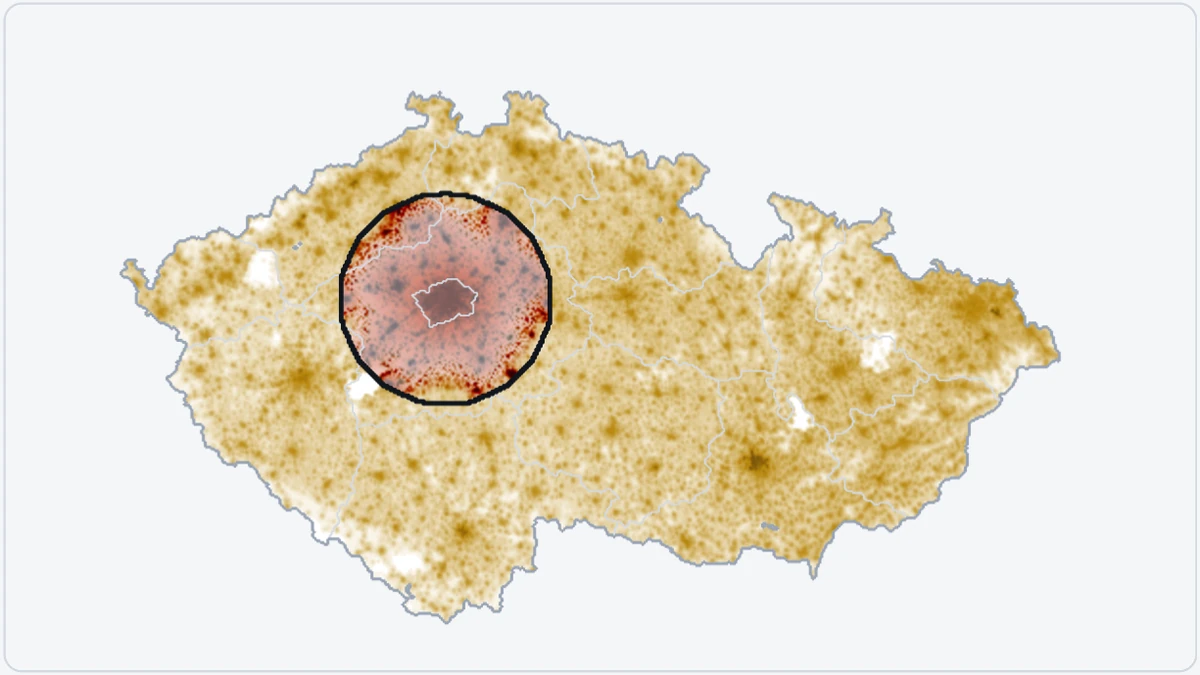
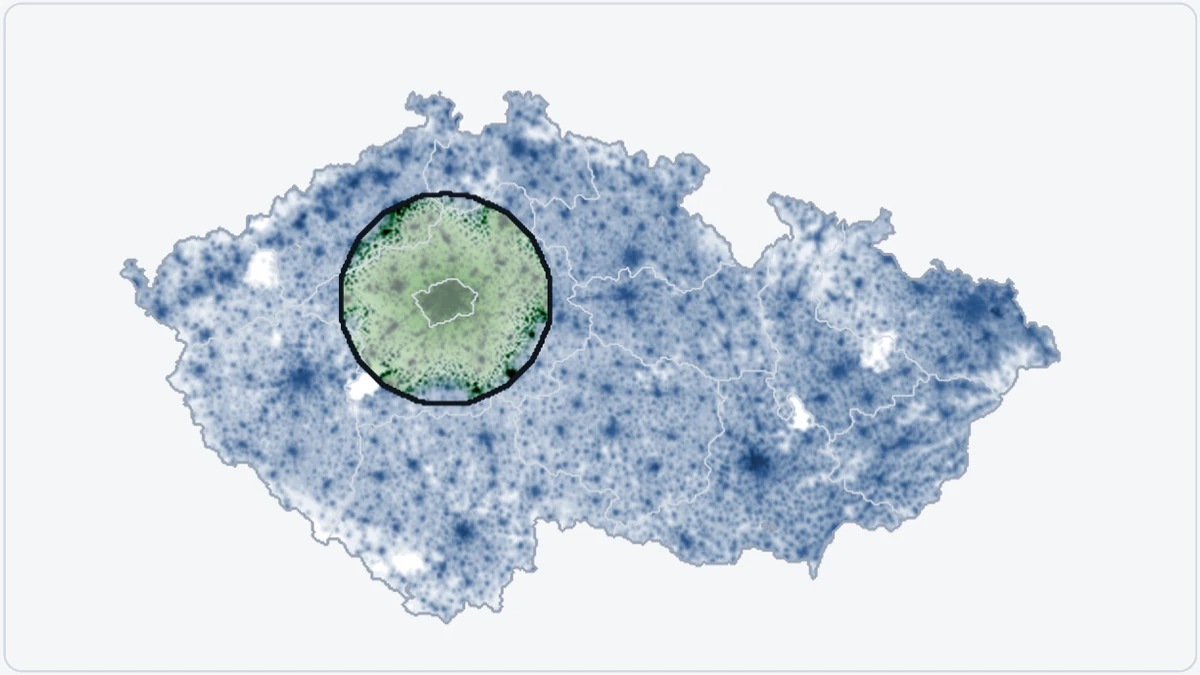
People take the main highlight and zombies the contrasting one
Move to demo-kit 0.4.0's colour roles: people use --color-accent and
zombies --color-accent-2, in the map and the chart, in place of
--color-sodium, --color-halpha and the light theme's ochre. On light, the
densest people deepen to navy and the front to deep green; the dead stay
charcoal. "What you're seeing" no longer names colours, as a stand-in
until Mark rewrites it. Stills re-rendered. Version 1.5.0.

diff --git a/demo/src/demo.css b/demo/src/demo.css
@@ -1,22 +1,20 @@
 /*
- * The map colours the kit has no tokens for (see readColours in src/render/map.js):
- * - people: city lights in sodium amber on dark, rising to white in the densest cores; ochre ink on
- *   light, rising to dark brown, so that nothing alive looks like the dead
- * - the front, where bites are happening now: H-alpha red rising to white on dark, to dark red on light
+ * People take the kit's main highlight (--color-accent) and zombies its contrasting one
+ * (--color-accent-2); see readColours in src/render/map.js. The map colours the kit has no tokens for:
+ * - the densest cores of people, and the front at its strongest, where bites are happening now:
+ *   white on dark; on light, a deeper shade of the same hue
  * - the dead: ash grey on dark, charcoal ink on light.
  * Dark is the default, as in the kit: light applies only under <html data-theme="light">.
  */
 [data-demo] {
-  --zo-people: var(--color-sodium);
   --zo-people-peak: var(--color-text);
   --zo-front-peak: var(--color-text);
   --zo-dead: #9aa6b8;
 }
 
 :root[data-theme="light"] [data-demo] {
-  --zo-people: #b8860b;
-  --zo-people-peak: #5c3d0a;
-  --zo-front-peak: #6e1606;
+  --zo-people-peak: #0f253f;
+  --zo-front-peak: #2d5923;
   --zo-dead: #2f3642;
 }
 
@@ -84,7 +82,7 @@
   font-weight: var(--weight-strong);
   text-align: center;
   background: var(--color-surface);
-  border: 1px solid var(--color-halpha);
+  border: 1px solid var(--color-accent-2);
   border-radius: var(--radius-pill);
   transform: translateX(-50%);
   cursor: default;

diff --git a/demo/src/render/paint.js b/demo/src/render/paint.js
@@ -2,12 +2,13 @@
 // only the finished image crosses to the main thread. No DOM access.
 //
 // "The lights go out": each Czech cell starts from the land colour, adds light for its humans (log
-// scale, sodium amber rising to white in the densest cores), and adds the stronger of two layers:
+// scale, the people's colour rising to white in the densest cores), and adds the stronger of two
+// layers:
 // - the fallen: zombies and the dead together, log-scaled like the people, in a colour mixed from
-//   red (zombies) and ash (the dead) by their shares, so a cell with more dead than zombies looks
-//   more ash than red
-// - the front: a bright red, rising to white, for where bites are happening now (β S Z).
-// In the light theme the same arithmetic darkens pale paper with ochre ink, red and charcoal instead.
+//   the zombies' colour and the dead's by their shares, so a cell with more dead than zombies looks
+//   more like the dead
+// - the front: the zombies' colour, rising to white, for where bites are happening now (β S Z).
+// In the light theme the same arithmetic darkens pale paper instead, rising to deeper shades.
 
 import { NEIGHBOUR_BASE } from '../grid.js';
 import { pack, parseHex, ramp, rampIndex } from './colour.js';

diff --git a/demo/test/engine.test.js b/demo/test/engine.test.js
@@ -6,8 +6,8 @@ import { parseHex } from '../src/render/colour.js';
 import { createPainter } from '../src/render/paint.js';
 import { createEngine } from '../src/sim/engine.js';
 
-const DARK = { night: '#0a0e14', land: '#111722', people: '#f6be55', peoplePeak: '#e8ecf2', zombie: '#c2391b', frontPeak: '#e8ecf2', dead: '#9aa6b8' };
-const LIGHT = { night: '#f5f6f8', land: '#ffffff', people: '#b8860b', peoplePeak: '#5c3d0a', zombie: '#c2391b', frontPeak: '#6e1606', dead: '#2f3642' };
+const DARK = { night: '#0a0e14', land: '#111722', people: '#f6be55', peoplePeak: '#e8ecf2', zombie: '#c13c36', frontPeak: '#e8ecf2', dead: '#9aa6b8' };
+const LIGHT = { night: '#f5f6f8', land: '#ffffff', people: '#285388', peoplePeak: '#0f253f', zombie: '#5ca24c', frontPeak: '#2d5923', dead: '#2f3642' };
 const PARAMS = { beta: 0.01, alpha: 0.004, zeta: 0.05, diffusion: 1, flee: 1, threshold: 1, epsilon: 1e-3, dt: 0.1 };
 
 // 6 × 4 cells: a neighbour (21) down the left side, Czech cells elsewhere, 100 people each.

diff --git a/demo/index.html b/demo/index.html
@@ -11,7 +11,7 @@
   <body style="margin: 0">
     <!-- The still image shows until the script mounts the demo, and stays if JavaScript is off. -->
     <div data-demo="zombie-outbreak">
-      <img src="./static.webp" width="1200" height="675" alt="Map of Czechia at night, lit in amber where people live, on the first day of the outbreak.">
+      <img src="./static.webp" width="1200" height="675" alt="Map of Czechia at night, lit where people live, on the first day of the outbreak.">
     </div>
     <script type="module" src="./src/main.js"></script>
   </body>

diff --git a/demo/src/render/map.js b/demo/src/render/map.js
@@ -12,9 +12,9 @@ export function readColours(token) {
   return {
     night: token('--color-bg'),
     land: token('--color-surface'),
-    people: token('--zo-people'),
+    people: token('--color-accent'),
     peoplePeak: token('--zo-people-peak'),
-    zombie: token('--color-halpha'),
+    zombie: token('--color-accent-2'),
     frontPeak: token('--zo-front-peak'),
     dead: token('--zo-dead'),
     region: token('--color-border'),

diff --git a/docs/plan.md b/docs/plan.md
@@ -58,12 +58,10 @@ The reference implementation is `src/zombie_outbreak/model.py`, whose docstring 
 
 The look is called "the lights go out":
 
-- **Dark theme.** Population as sodium-amber (`#F6BE55`) lights on the navy background, zombies glowing H-alpha red (`#C2391B`), and the dead going dark.
-- **Light theme.** Ink density on the pale background, with red zombies.
+- **Dark theme.** Population as sodium-amber (`#f6be55`) lights on the navy background, zombies glowing ember red (`#c13c36`), and the dead going dark.
+- **Light theme.** Ink density on the pale background: viridis-blue (`#285388`) people and green (`#5ca24c`) zombies.
 
-These colours come from demo-kit v0.2.0's tokens, which match the site's design. The map reads `--color-bg`, `--color-surface`, `--color-text`, `--color-border` and `--color-curve`, and will read `--color-halpha` for zombies in 3c. The one demo-local token is `--zo-people` in `demo/src/demo.css`: sodium amber on dark, `--color-muted` on light. Like the kit, the demo is dark unless `<html data-theme="light">`.
-
-Still to check: H-alpha red on the dark background has lower contrast than the site's own pairs. Test it, and adjust the zombie colour on dark if needed.
+Since step 10, these colours are demo-kit v0.4.0's colour roles, which the site shares: people take the main highlight (`--color-accent`) and zombies the contrasting one (`--color-accent-2`), in the map and the chart. The map also reads `--color-bg`, `--color-surface`, `--color-text`, `--color-border` and `--color-curve`. The demo's own colours, in `demo/src/demo.css`, are the densest people and the front at its strongest (`--zo-people-peak`, `--zo-front-peak`) and the dead (`--zo-dead`). Like the kit, the demo is dark unless `<html data-theme="light">`.
 
 ## Repo layout (target)
 
@@ -247,7 +245,15 @@ Asked for by Mark on 2026-11-19: the controls go back on the side, and the whole
 Asked for by Mark on 2026-11-19: each change should be one PR that goes live when it merges, and the demo should be fully visible when its project page opens.
 - [x] **Release on merge.** `demo/package.json`'s `version` is the release. A PR that changes the demo must bump it, or CI fails. When it merges, the Demo workflow builds the bundle, sets `built` to that day, releases `v<version>` and starts the site's build (with the `SITE_DEPLOY_TOKEN` secret). The site now takes each project's latest release ([Mark-Bugden.github.io#16](https://github.com/Mark-Bugden/Mark-Bugden.github.io/pull/16)), so there's no tag to push and no site PR.
 - [x] **Fits below the site's title.** On the project page, the title is now the only thing above the demo ([Mark-Bugden.github.io#17](https://github.com/Mark-Bugden/Mark-Bugden.github.io/pull/17)). The site sets `--dk-fit-height` to the window's height less what sits above the demo, and `--zo-fit` reads it in place of `100dvh`. Standalone, nothing changes. Measured with the site's branch: fits at 1920×960, 1536×730 and 1440×790. At 1366×650 it is 37 px short, held by the stage's 14rem minimum.
-- [ ] Merging releases `v1.4.0`.
+- [x] Merging released `v1.4.0` on 2026-11-19.
+
+### 10. The shared palette: release `v1.5.0`
+Agreed with Mark on 2026-11-19 (see doctor-who-ratings' plan, "A shared palette"): the site and the demos share three colour roles, which demo-kit v0.4.0 provides.
+- [x] **Kit v0.4.0.** People take the main highlight, `--color-accent`, and zombies the contrasting one, `--color-accent-2`. That replaces `--color-sodium` for people, `--color-halpha` for zombies, and the light theme's ochre. Dark barely changes: zombies go from H-alpha `#c2391b` to ember `#c13c36`. On light, people are viridis blue `#285388` and zombies green `#5ca24c`.
+- [x] **The light theme's deeper shades.** Mark chose from three options rendered on the same run (2026-11-20). The densest people deepen to navy `#0f253f` and the front to deep green `#2d5923`, the same darkening the ochre and red had, and the dead stay charcoal `#2f3642`. That charcoal is ΔE 13 from the people and 7.7 from the navy, closer than the ochre was. The other options were the dead in pale grey (faint in the chart, at 2:1) or in a neutral charcoal with no deeper shades.
+- [x] **No colour names in the copy.** "What you're seeing" named amber, red and grey, which no longer fit the light theme. It now says the map is coloured like the chart, as a stand-in until Mark rewrites the paragraph. The opening still's alt text drops "in amber".
+- [x] Re-render the stills with `scripts/stills.py`.
+- [ ] Merging releases `v1.5.0`.
 
 ## Open questions
 
